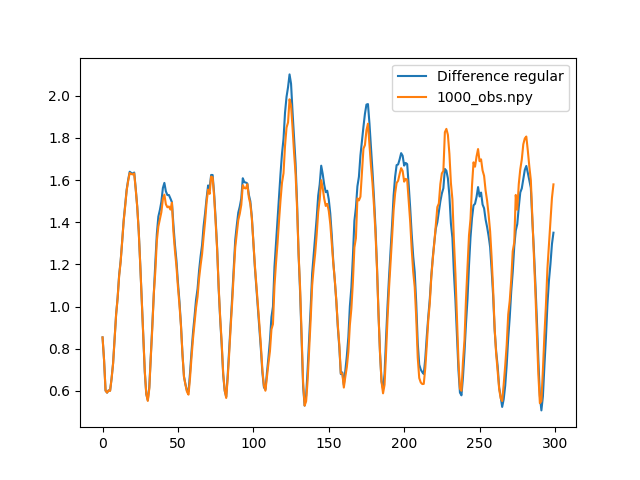
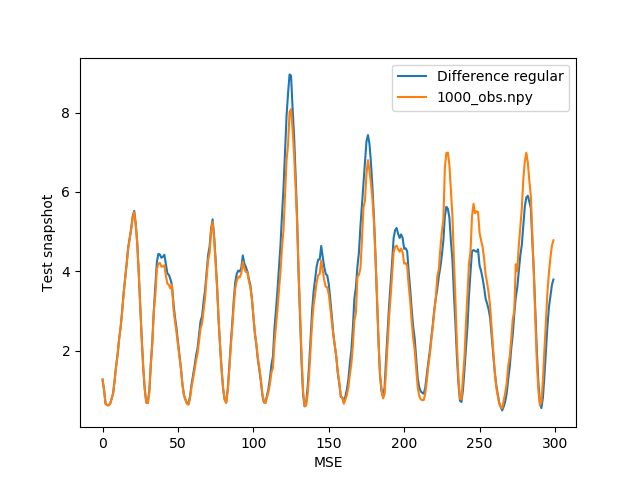
Added tf.gradient computation

diff --git a/lstm_archs.py b/lstm_archs.py
@@ -199,7 +199,7 @@ class standard_lstm(Model):
         true_observations = test_fields[:,rand_idx]
 
         # 3D-Variational update
-        for t in range(100):
+        for t in range(300):
 
             # Background vector - initial time window input
             x_ti = self.preproc_pipeline.inverse_transform(rec_input_seq[0,:].reshape(self.seq_num,-1))
@@ -229,7 +229,43 @@ class standard_lstm(Model):
                 
                 return pred
 
-            solution = minimize(residual,rec_input_seq[0].flatten(),method='SLSQP',
+            # Define gradient of residual
+            def residual_gradient(x):
+                # Prior
+                x = x.reshape(self.seq_num,-1).astype('double')
+                xphys = self.preproc_pipeline.inverse_transform(x)
+                tf_x_star_rec = tf.convert_to_tensor(np.matmul(pod_modes,xphys.T),dtype='float64')#[:,0:1]
+                tf_x_ti_rec = tf.convert_to_tensor(x_ti_rec,dtype='float64')
+                tf_y_ = tf.convert_to_tensor(y_,dtype='float64')
+
+                # Likelihood
+                x = x.reshape(1,self.seq_num,-1)
+                x = tf.convert_to_tensor(x,dtype='float64')
+                tf_pod_modes = tf.convert_to_tensor(pod_modes,dtype='float64')
+
+                std_scaler = self.preproc_pipeline.get_params()['steps'][0][1]
+                minmax_scaler = self.preproc_pipeline.get_params()['steps'][1][1]
+
+                with tf.GradientTape(persistent=True) as t:
+                    t.watch(x)
+                    
+                    op = self.call(x)
+                    op = (op+1)/2.0*(minmax_scaler.data_max_- minmax_scaler.data_min_) + minmax_scaler.data_min_
+                    op = (op)*std_scaler.scale_ + std_scaler.mean_
+                    op = tf.cast(op,dtype='float64')
+
+                    x_tf_rec = tf.matmul(tf_pod_modes,tf.transpose(op))[:,0]
+
+                    # Sensor predictions
+                    tf_idx = tf.convert_to_tensor(rand_idx,dtype='int32')
+                    h_ = tf.gather(x_tf_rec,tf_idx)
+
+                    # J
+                    pred = tf.math.reduce_sum(0.5*(tf_x_star_rec - tf_x_ti_rec)**2) + tf.math.reduce_sum(0.5*(tf_y_-h_)**2)
+                 
+                return t.gradient(pred, x).numpy()[0,:,:].flatten().astype('double')
+
+            solution = minimize(residual,rec_input_seq[0].flatten(),jac=residual_gradient, method='CG',
                 tol=1e-8,options={'disp': True, 'maxiter': 100, 'eps': 1.4901161193847656e-8})
 
             assimilated_rec_input_seq = solution.x.reshape(1,self.seq_num,-1)

diff --git a/Varying_Observations.py b/Varying_Observations.py
@@ -15,7 +15,7 @@ pod_modes = np.load('POD_Modes.npy')
 # Just emulator
 lstm = np.load('./Regular/Predicted.npy')[:300]
 pred_field = np.matmul(pod_modes,lstm.T)
-pred_diff = np.sum(np.abs((test_fields-pred_field.T)),axis=1)/np.shape(pred_field)[0]
+pred_diff = np.sum((test_fields-pred_field.T)**2,axis=1)/np.shape(pred_field)[0]
 
 # Data assimilated
 file_list = os.listdir('./Varying_Observations/')
@@ -27,7 +27,7 @@ for file in file_list:
     # Reconstruct
     var_field = np.matmul(pod_modes,lstm_var.T)
     # Difference
-    var_diff = np.sum(np.abs((test_fields-var_field.T)),axis=1)/np.shape(var_field)[0]
+    var_diff = np.sum((test_fields-var_field.T)**2,axis=1)/np.shape(var_field)[0]
 
     var_diff_list.append(var_diff)
 
@@ -41,5 +41,7 @@ for i in range(len(file_list)):
     plt.plot(pred_diff,label='Difference regular')
     plt.plot(var_diff_list[i],label=file_list[i])
     plt.legend()
+    plt.xlabel('MSE')
+    plt.ylabel('Test snapshot')
     plt.savefig(save_name)
     plt.close()
